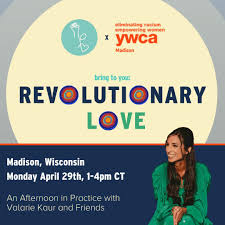
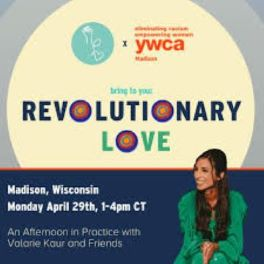
index.html
updated images and context for several sections

diff --git a/index-two.html b/index-two.html
@@ -24,7 +24,7 @@
     />
 
     <!-- icons -->
-    <link rel="icon" href="images/ico/favicon.ico" />
+    <link rel="icon" href="images/Letter Logo.png" />
     <link
       rel="apple-touch-icon-precomposed"
       sizes="144x144"
@@ -94,6 +94,7 @@
                     </li>
                   </ul>
                 </div> -->
+
                 <div class="banner-info">
                   <h1>Hello, I am</h1>
                   <h2>Armon Carter</h2>
@@ -292,7 +293,7 @@
                         <div
                           class="progress-bar bar4"
                           role="progressbar"
-                          aria-valuenow="50"
+                          aria-valuenow="2"
                           aria-valuemin="0"
                           aria-valuemax="100"
                         ></div>
@@ -519,9 +520,10 @@
                   <h5>Technical College</h5>
                   <h6></h6>
                   <p>
-                    Lorem ipsum dolor sit amet, consectetur adipisicing elit,
-                    sed do eiusmod tempor incididunt ut labore et dolore magna
-                    aliqua. Ut enim ad minim veniam.
+                    Attending a technical college provided me with practical skills and
+                    specialized knowledge that is directly applicable to the
+                    workforce, setting me up for success in any chosen
+                    field.
                   </p>
                 </div>
                 <hr />
@@ -652,7 +654,7 @@
                       </div>
                     </div>
                   </div>
-                  <div class="col-sm-6">
+                  <!-- <div class="col-sm-6">
                     <div class="portfolio-item">
                       <img
                         class="img-fluid"
@@ -672,8 +674,8 @@
                         </div>
                       </div>
                     </div>
-                  </div>
-                  <div class="col-sm-6">
+                  </div> -->
+                  <!-- <div class="col-sm-6">
                     <div class="portfolio-item">
                       <img
                         class="img-fluid"
@@ -735,7 +737,7 @@
                         </div>
                       </div>
                     </div>
-                  </div>
+                  </div> -->
                 </div>
               </div>
               <!-- portfolio content -->
@@ -949,7 +951,7 @@
                       <div class="thumbnail-oberlay"></div>
                       <img
                         class="img-fluid"
-                        src="images/blog/4.jpg"
+                        src="images/blog/1712949352542.jpg"
                         alt="Image"
                       />
                     </div>
@@ -971,7 +973,7 @@
                       <div class="thumbnail-oberlay"></div>
                       <img
                         class="img-fluid"
-                        src="images/blog/2.jpg"
+                        src="images/blog/unnamed (7).jpg"
                         alt="Image"
                       />
                     </div>
@@ -993,7 +995,7 @@
                       <div class="thumbnail-oberlay"></div>
                       <img
                         class="img-fluid"
-                        src="images/blog/3.jpg"
+                        src="images/blog/revolutionary.jpg"
                         alt="Image"
                       />
                     </div>
@@ -1016,7 +1018,7 @@
                       <div class="thumbnail-oberlay"></div>
                       <img
                         class="img-fluid"
-                        src="images/blog/5.jpg"
+                        src="images/blog/practice.jpg"
                         alt="Image"
                       />
                     </div>
@@ -1074,11 +1076,15 @@
             <div class="col-md-8">
               <div class="section-content">
                 <div class="profile-logo">
-                  <img class="img-fluid" src="images/2024_YWeb_Headshots__36_of_44_-removebg-preview.png" alt="Image" />
+                  <img
+                    class="img-fluid rounded-circle"
+                    src="images/blog/2024_YWeb_Headshots_small.png"
+                    alt="Image"
+                  />
                 </div>
                 <div class="profile-info">
                   <h1>Armon Carter</h1>
-                  <h4>Web Developer</h4>
+                  <h4>Jr Web Developer</h4>
                   <address>
                     <p>
                       Address: Madison, WI USA
@@ -1186,6 +1192,7 @@
                     <hr />
                     <div class="education">
                       <h5>Madison Area Technical College</h5>
+                      <p>Courses Completed</p>
                       <!-- <p>1995 - 1999</p> -->
                     </div>
                     <!-- <hr /> -->
@@ -1392,18 +1399,18 @@
                     </div>
                     <h3>Portfolio</h3>
                   </div>
-                  <!-- <div class="sub-content">
+                  <div class="sub-content">
                     <ul>
                       <li>
-                        <h5>Dribbble</h5>
-                        <span>:</span><a href="#">dribbble.com/geek</a>
+                        <h5>github.com/project1</h5>
+                        <span>:</span><a href="https://akcarter2.github.io/fantastic-iv/">Fantastic IV</a>
                       </li>
                       <li>
-                        <h5>Website</h5>
+                        <h5>github.com/project2</h5>
                         <span>:</span
-                        ><a href="#">www.surzilgeek.com/portfolio</a>
+                        ><a href="https://yaeger07.github.io/GlobeWebb-Agents/">Global Webb</a>
                       </li>
-                      <li>
+                      <!-- <li>
                         <h5>Flicker</h5>
                         <span>:</span
                         ><a href="#">www.flicker.com/geek-photography</a>

diff --git a/css/main.css b/css/main.css
@@ -501,6 +501,13 @@ ul.sub-menu {
     background-position: right;
     background-size: contain;
 }
+.home-two>#home-banner:hover {
+    background-image: url(../images/2024_YWeb_Headshots__36_of_44_-removebg-preview.png);
+    background-repeat: no-repeat;
+    /* background-position: right; */
+    background-size: contain;
+    
+}
 
 .banner-info h1 {
     font-size: 48px;
